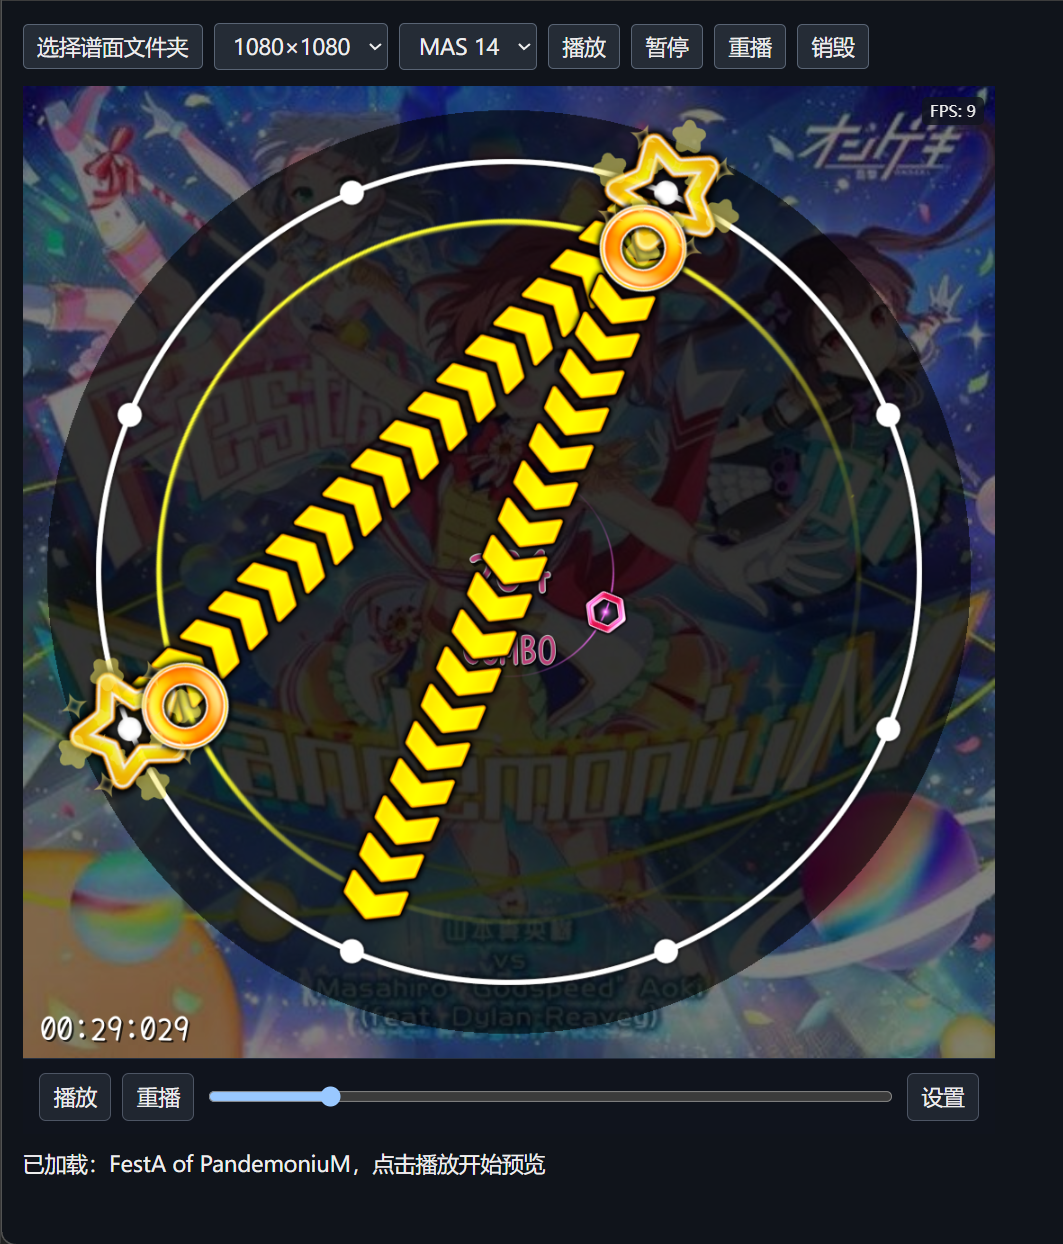
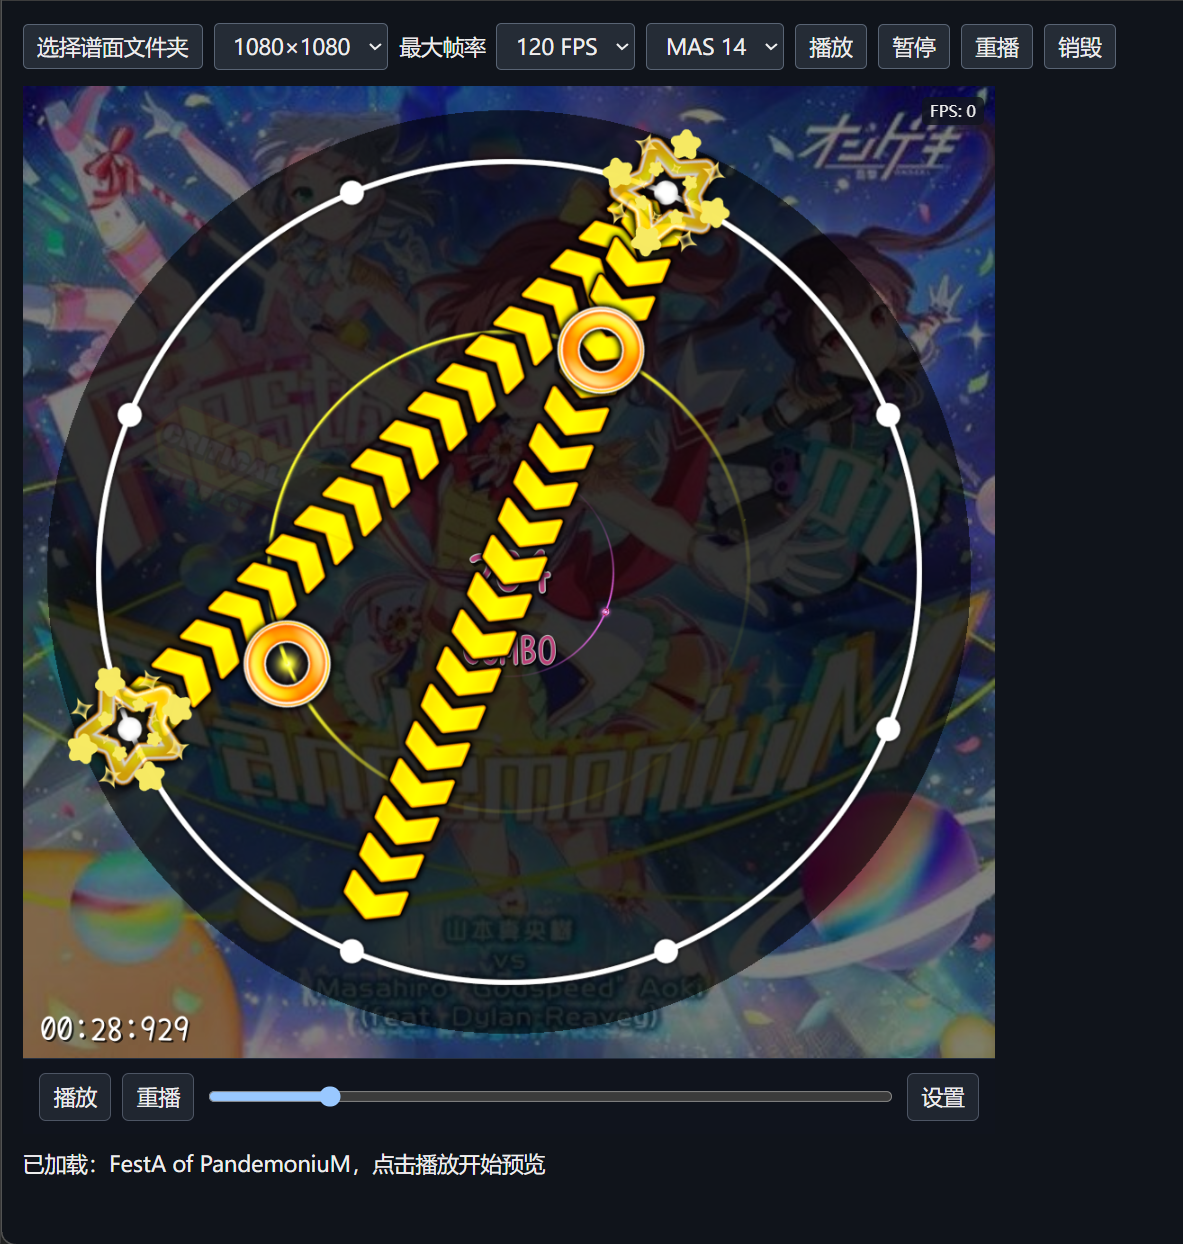
feat: 新增最大帧率调节接口

diff --git a/tests/types.ts b/tests/types.ts
@@ -11,6 +11,7 @@ const chart: ChartInput = {
 };
 const preview: MiaCodePreview = createPreview(document.createElement("div"), {
   resolution: { width: 720, height: 720 },
+  maxFps: 120,
 });
 void preview.load(chart);
 void preview.seek(1);
@@ -19,6 +20,10 @@ void preview.setSettings({ previewMode: "maimuri_dx_style" });
 // @ts-expect-error Unknown preview modes are rejected.
 void preview.setSettings({ previewMode: "unknown" });
 void preview.getState().then((state: PreviewState) => state.resolution.width);
+void preview.getState().then((state: PreviewState) => state.maxFps);
+createPreview(document.createElement("div"), { maxFps: "unlimited" });
+// @ts-expect-error Numeric strings are not frame rates.
+createPreview(document.createElement("div"), { maxFps: "120" });
 preview.on("paused", (event) => event.elapsedMs);
 preview.destroy();
 // @ts-expect-error Judgment effects are fixed and not configurable.

diff --git a/examples/index.html b/examples/index.html
@@ -49,6 +49,17 @@
         <option value="1920x1080">1920×1080</option>
         <option value="1080x1080">1080×1080</option>
       </select>
+      <label for="max-fps">最大帧率</label>
+      <select id="max-fps" aria-label="最大帧率">
+        <option value="30">30 FPS</option>
+        <option value="60" selected>60 FPS</option>
+        <option value="90">90 FPS</option>
+        <option value="120">120 FPS</option>
+        <option value="144">144 FPS</option>
+        <option value="165">165 FPS</option>
+        <option value="240">240 FPS</option>
+        <option value="unlimited">不限</option>
+      </select>
       <select id="difficulty" aria-label="难度" disabled></select>
       <button id="play" disabled>播放</button
       ><button id="pause" disabled>暂停</button

diff --git a/README.md b/README.md
@@ -4,7 +4,7 @@ MiaView_Web 是一个可嵌入网站的 maimai 谱面实时预览库，支持 Si
 
 通过这个库，你可以在谱面网站或在线看谱器中加入实时播放器，查看谱面并播放音乐、判定音效。播放器通过 WebAssembly 运行原生代码，使用 Qt Quick 和 WebGL 2 绘制画面，使用 WebAudio 播放音频。
 
-当前基于 [MiaCode v1.2.0](https://github.com/Team-MiaCode/MiaCode/releases/tag/v1.2.0) 进行开发。
+当前基于 [MiaCode v1.2.0](https://github.com/Team-MiaCode/MiaCode/releases/tag/v1.2.0) 版本进行开发。
 
 ## 功能
 
@@ -13,6 +13,7 @@ MiaView_Web 是一个可嵌入网站的 maimai 谱面实时预览库，支持 Si
 - 播放、暂停、跳转、重播和切换难度。
 - 调整音符流速和画面亮度，切换 SD / DX 皮肤与预览模式。
 - 支持 16:9 与 1:1 画面，提供 ES module 接口和 TypeScript 类型声明。
+- 可配置最大预览帧率，支持不小于 30 的整数或不限帧率，默认 60 FPS。
 
 仓库提供可直接部署的预编译播放器，接入时无需编译 C++。本库专注于浏览器中的谱面预览，不包含 MiaCode 桌面版的完整编辑器和视频导出功能。
 
@@ -39,6 +40,15 @@ npm run dev
 无需执行 `npm install`。启动后，在浏览器中打开 <http://localhost:3030>，选择包含 `maidata.txt` 的谱面文件夹，加载完成后点击播放。文件夹可以同时包含音乐、背景图片和 PV；所选文件只在浏览器中读取，不会上传到示例服务器。
 
 示例服务器仅监听本机地址，用于本地开发。正式部署请使用静态托管服务。
+
+示例页顶部提供分辨率和「最大帧率」下拉框，可直接调整本地预览：
+
+| 选项 | 可选值 | 默认值 |
+| --- | --- | --- |
+| 分辨率 | 1920×1080（16:9）、1080×1080（1:1） | 1920×1080 |
+| 最大帧率 | 30、60、90、120、144、165、240 FPS、不限 | 60 FPS |
+
+切换任一选项后，示例页会自动重新创建播放器并加载当前谱面，回到起点并暂停，点击「播放」即可继续预览。「不限」表示取消程序限帧，实际帧率取决于屏幕刷新率、浏览器调度和设备性能。
 
 示例会按扩展名选取首个音乐、图片和视频文件。如果文件夹中有多个同类素材，请通过接入接口明确指定要使用的文件。
 
@@ -72,6 +82,7 @@ public/
   const preview = createPreview(document.getElementById("preview"), {
     rendererUrl: "/miacode/renderer/index.html",
     resolution: { width: 1920, height: 1080 },
+    maxFps: 60, // 可选：不小于 30 的整数，或 "unlimited"
   });
 
   preview.on("error", ({ message }) => {
@@ -97,6 +108,19 @@ public/
 ```
 
 将示例中的谱面和媒体路径替换为你自己的资源地址。播放器加载完成后默认暂停；点击内置播放按钮即可开始预览，也可以通过进度条跳转或在设置面板中调整画面。首次播放音频需要用户操作，以满足浏览器的自动播放限制。
+
+`maxFps` 设置最大预览帧率，默认 60，可配置为不小于 30 的整数（如 30、60、120、144、240），或 `"unlimited"` 取消程序限帧。实际帧率受屏幕刷新率、浏览器调度和设备性能影响；右上角的 FPS 显示实际绘制帧率，暂停时可能为 0。与分辨率一样，修改最大帧率需要销毁并重新创建实例，当前配置可通过 `(await preview.getState()).maxFps` 读取。
+
+接入自己的网站时，在 `createPreview()` 的配置中设置 `maxFps`；本地示例页的「最大帧率」下拉框也是通过这个参数控制帧率。代码配置支持任意不小于 30 的整数，不限于示例页列出的档位。
+
+```js
+const preview = createPreview(document.getElementById("preview"), {
+  resolution: { width: 1920, height: 1080 },
+  maxFps: "unlimited",
+});
+```
+
+直接嵌入播放器 HTML 时，也可以在 URL 中配置，例如 `/miacode/renderer/index.html?width=1920&height=1080&maxFps=120`。
 
 ### 3. 使用本地文件或谱面原文
 
